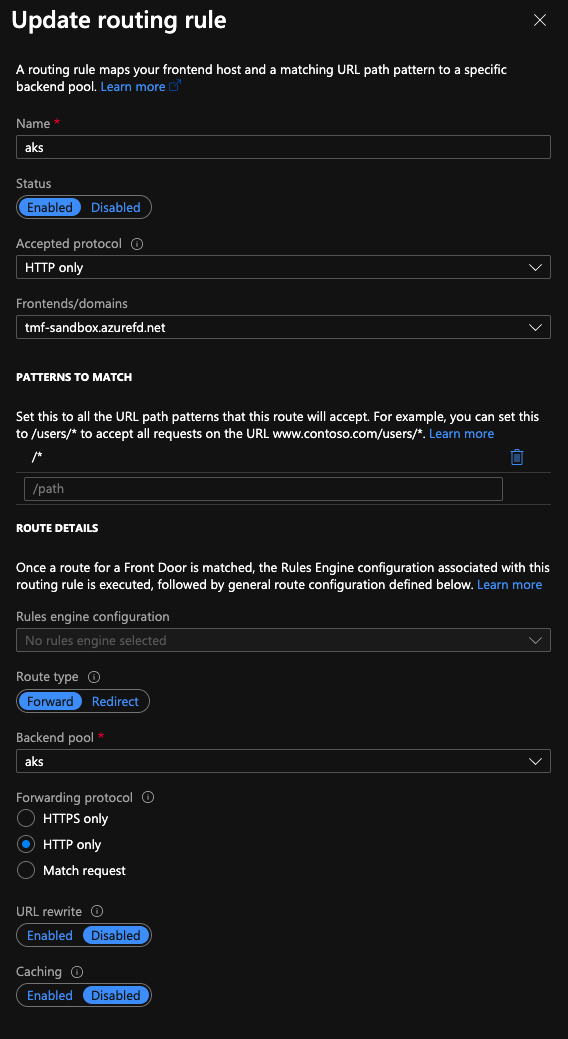
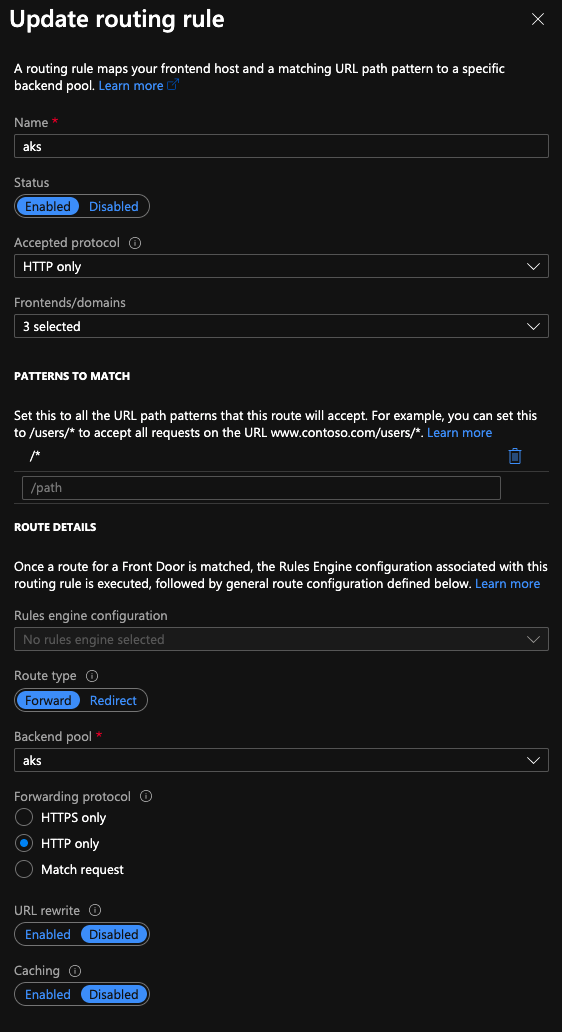
Update FD description

diff --git a/front-door/multiple-custom-domains.md b/front-door/multiple-custom-domains.md
@@ -1,4 +1,13 @@
-#  The easiest way is to install the Helm charts for each
+# Multiple Custom Domains with Front Door + AKS + Ingress
+
+# Intent
+
+This walkthrough is designed to show using FrontDoor to proxy all traffic before it hits an AKS cluster using Ingress with multiple domains (one domain in each Namespace)
+
+For Reference:
+* https://docs.microsoft.com/en-us/azure/frontdoor/front-door-custom-domain
+
+# Setup Ingress
 
 ```shell
 INGRESS_IP=$(kgsvc -n ingress-basic nginx-ingress-ingress-nginx-controller -o json | jq '.status.loadBalancer.ingress[0].ip' -r)
@@ -39,6 +48,8 @@ curl -H "Host: $NAME2.$CUSTOM_DOMAIN" http://$INGRESS_IP
 ```
 
 ## Setup Front Door
+
+NOTE: I have noticed Front Door taking ~10 minutes to propagate the changes, even after saving the configuration is complete.
 
 ![Front Door Designer](images/fd-designer.png)
 ![Front Door Custom Domain](images/fd-custom-domain-settings.png)
